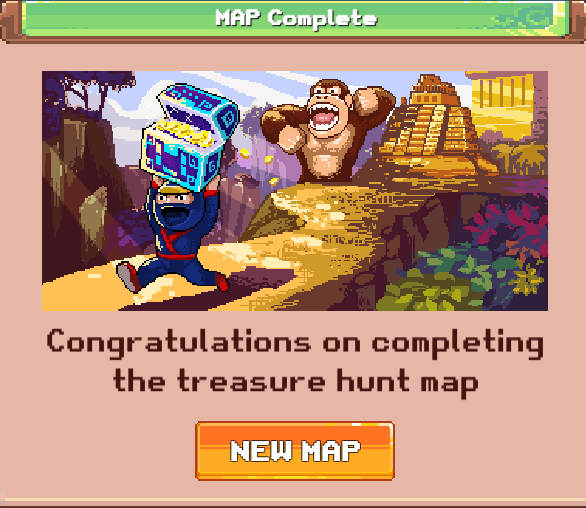
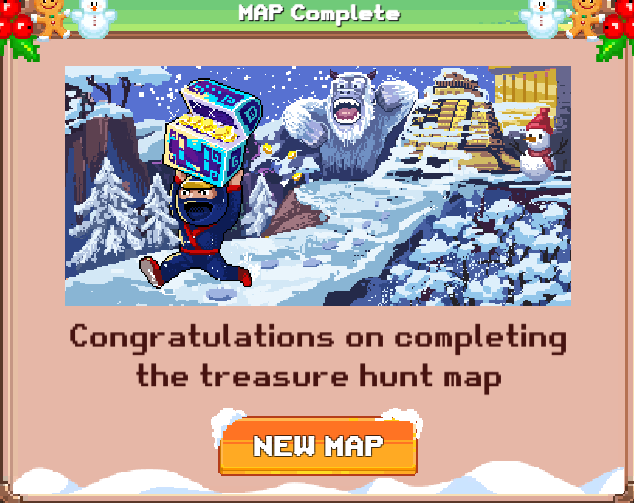
adicionei novas imagens de new map

diff --git a/game.py b/game.py
@@ -31,6 +31,7 @@ class Game:
                 self.log("im solving the captcha, this is real hard cause im a robot, ok?")
                 self.resolve_captcha()
                 self.failed_captchas_count += 1
+                print(self.failed_captchas_count)
             
             if self.state == 'not started' and self.is_connect_screen():
                 self.log('Connecting...')
@@ -166,14 +167,10 @@ class Game:
                 self.reset_game()
                 return
             self.from_game_to_menu()
+            time.sleep(3)
             self.vision.refresh_frame()
-            while(self.is_menu()):
-                self.log("awaiting for menu...")
-                time.sleep(2)
-
-                if(self.check_errors()):
-                    self.reset_game()
             
+            self.state = "going to game"
             
   
     def send_heroes_to_work(self):
@@ -272,7 +269,7 @@ class Game:
         is_error_communication_error =  np.shape(match_communication_error)[1] >= 1
         is_connection_error = np.shape(connection_error)[1] >= 1
         failed_captcha = False
-        if(self.failed_captchas_count > 3):
+        if(self.failed_captchas_count >= 3):
             failed_captcha = True
             self.failed_captchas_count = 0
         return is_error_unknown or is_error_overloaded or is_error_abnormal_disconetion or is_error_socket_1 or is_error_manual or is_error_communication_error or is_connection_error or failed_captcha
